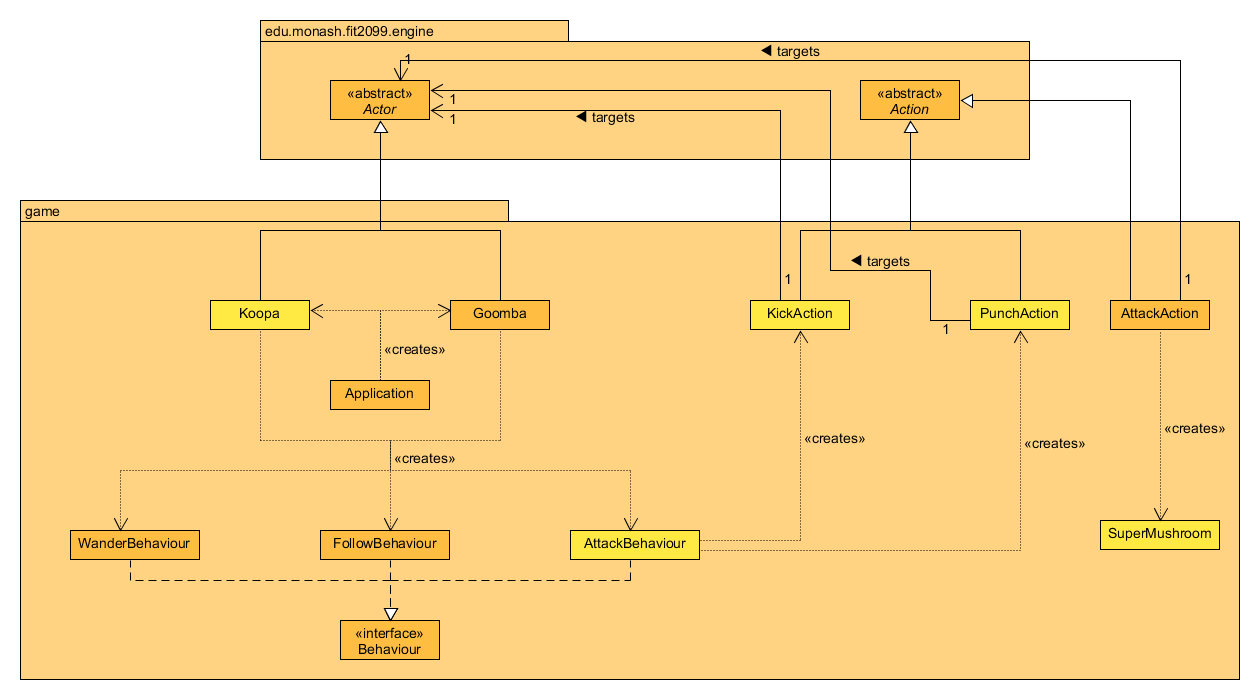
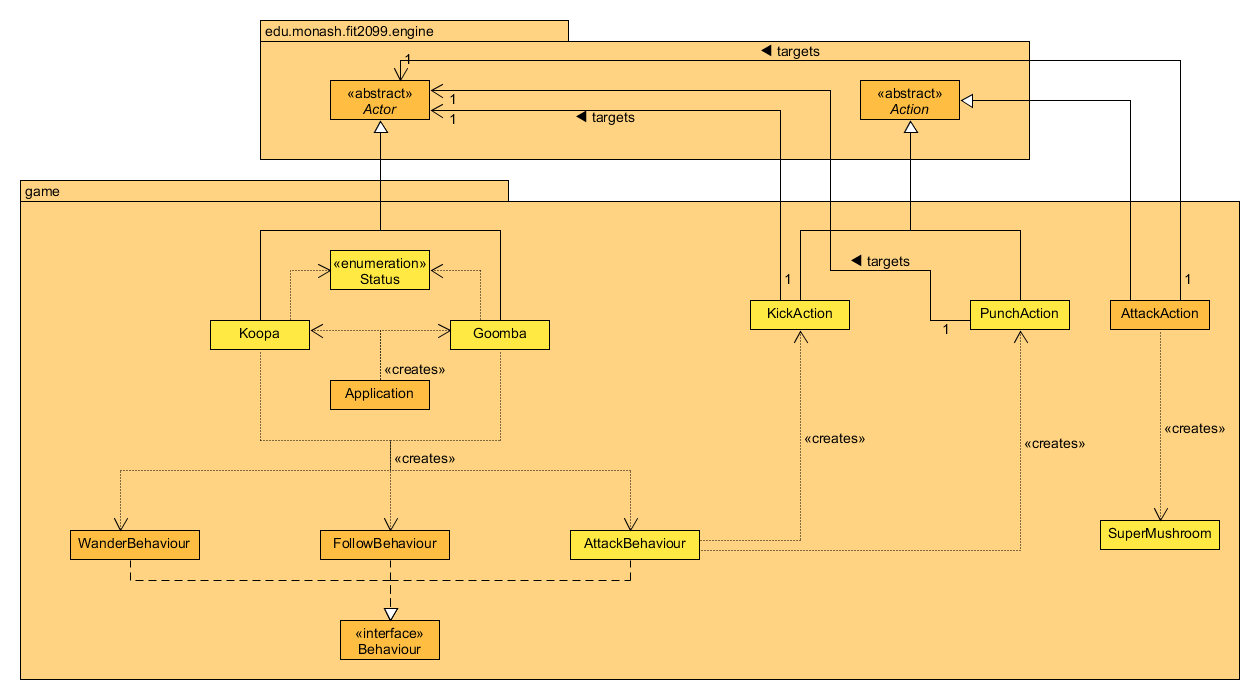
Updated REQ3 Class Diagram and Design Rationales

diff --git a/design-docs/REQ2_DesignRationale.md b/design-docs/REQ2_DesignRationale.md
@@ -12,11 +12,22 @@ For reference, here are the class diagrams and sequence diagrams.
 
 ## Rationale
 
+My approach for this was to have the program check the Player's surroundings for high grounds
+and give the Player the option to jump to those high grounds. When the Player chooses to jump
+to the high ground, the program will generate a random probability and compare it to the 
+success rate of jumping to the specified high ground. If the generated probability is within
+the range of the success rate, the Player will successfully jump onto the high ground, otherwise
+the Player will attempt jump onto the high ground, fall back to his original location and take
+fall damage. I also had another approach for this which was to compare the generated probability
+to the success rate before the jump and allow Player to jump if the generated probability
+was in the range of the success rate, but this would have resulted in the Player taking damage 
+if the Player moved from high to low ground which was why I went with my current approach.
+  
 The JumpActorAction class is a class used to allow the Player to jump onto
 high grounds. It extends the Action abstract class so that it can override 
 the methods inside to allow the Player to perform a jump.  
   
-The JumpActorAction class has 3 dependencies:  
+The JumpActorAction class should have 3 dependencies:  
 1. GameMap, which is used to always track where the Player's current 
 location is.   
 2. Actor, which contains many methods that the JumpActorAction class 

diff --git a/design-docs/REQ3_DesignRationale.md b/design-docs/REQ3_DesignRationale.md
@@ -12,6 +12,17 @@ For reference, here are the class diagrams and sequence diagrams.
 ![req3 sequence diagram](./REQ3_sequence_02.png)
 
 ## Rationale
+
+My approach for this was to create a new status in the Status enumeration class and 
+add it as a capability to both Koopa and Goomba to have them attack the Player similar to
+the status HOSTILE_TO_ENEMY used by the Player. The Koopa and Goomba will then utilise
+the PunchAction and KickAction classes respectively to attack the Player. The PunchAction
+and KickAction classes will generate a random probability and compare it to the hit rate
+of the attack, if it is within the range of the hit rate, the Player will take damage.
+My previous approach for this was to have the Koopa and Goomba have the capability
+HOSTILE_TO_ENEMY but this would have resulted in the Koopa and Goomba attacking themselves
+instead of the Player which was why I went with this approach.
+  
 The Koopa and Goomba are enemies that appear in the game that can attack
 the Player. The Koopa and Goomba classes instantiate the following classes:    
   
